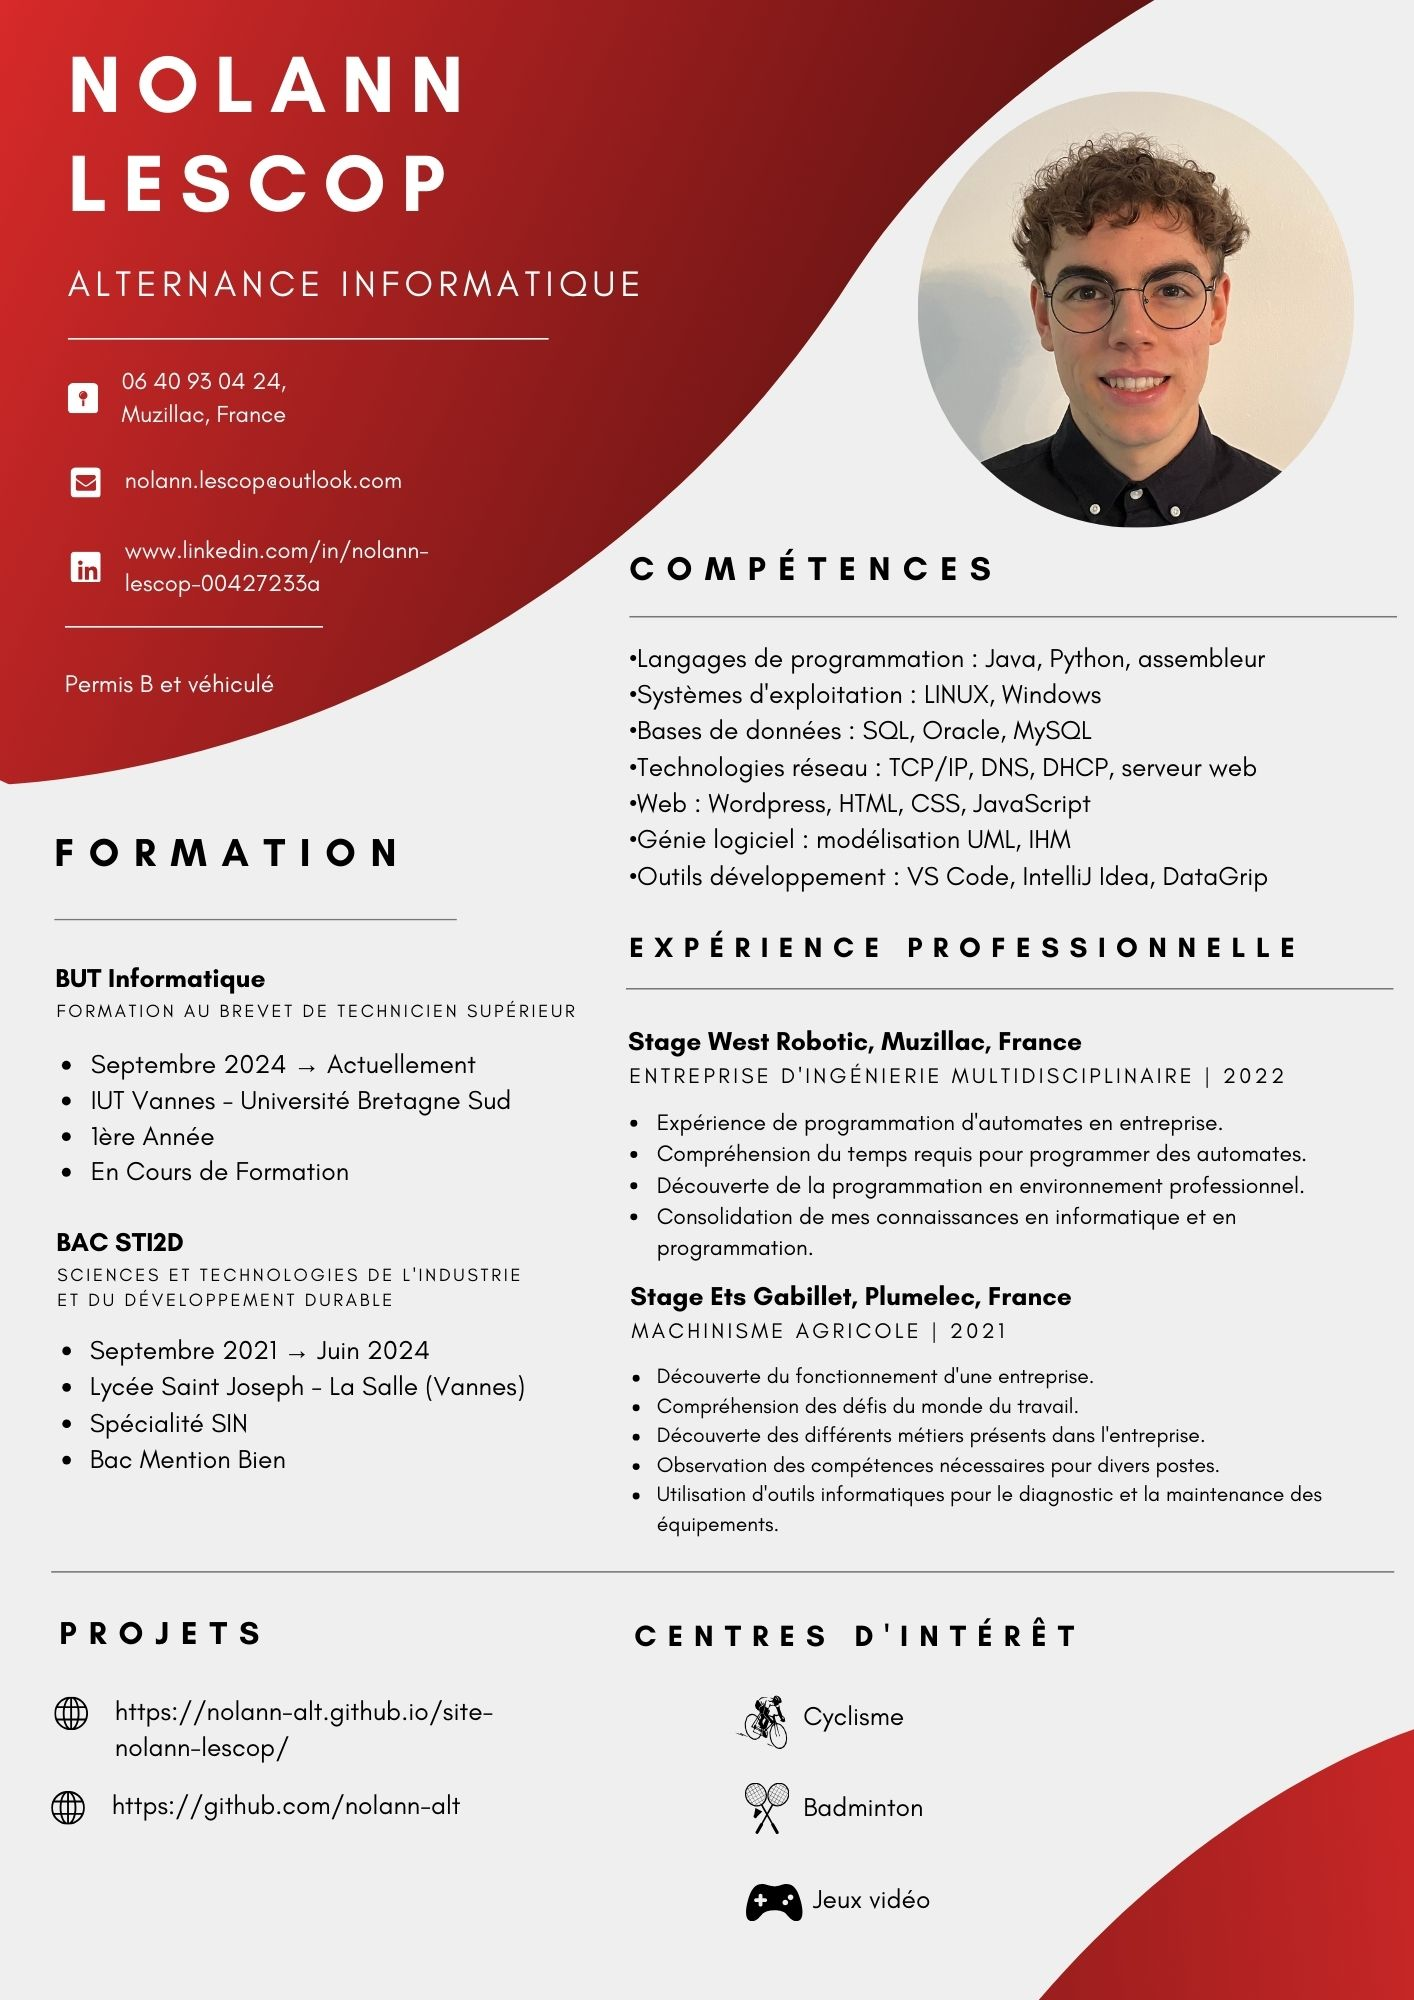
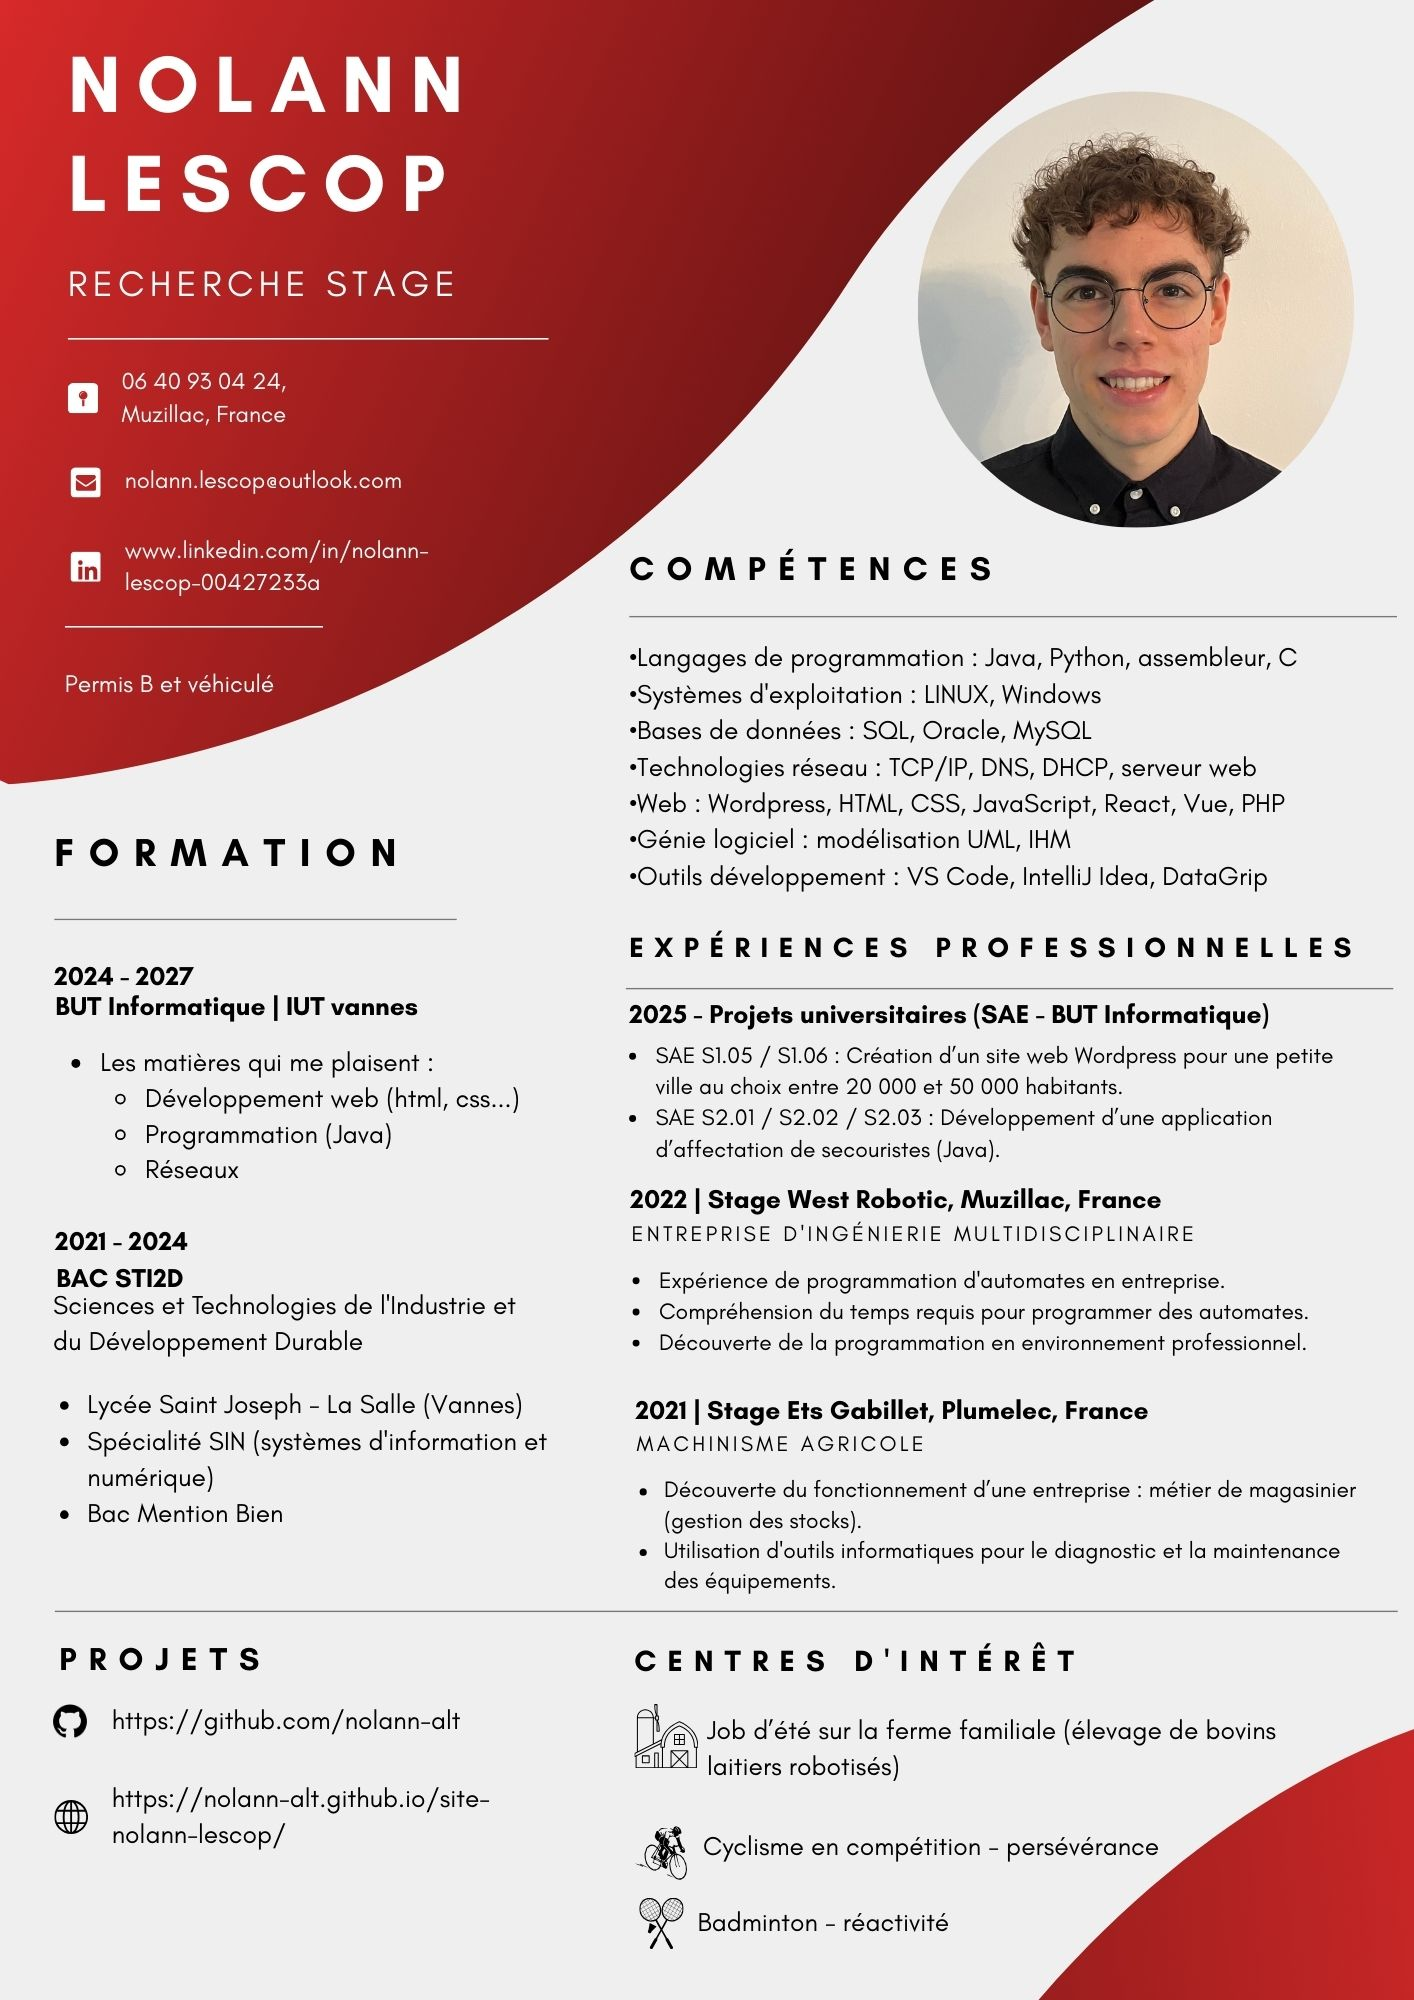
Update-2nd-Year

diff --git a/index.html b/index.html
@@ -38,7 +38,7 @@
             <div class ="presentation" id="presentation">
                 <h1 id="TitreP1">Nolann <span id="TitreP1_2">Lescop.</span></h1>
                 <h2 id="TitreP2">IT work-study</h2>
-                <p id="p1">Hi there, I'm Nolann Lescop, a student at the IUT in Vannes in the first year of a computer science degree, and I'm looking for a work-study placement to apply my knowledge and develop my skills in the IT field.</p>
+                <p id="p1">Hi there, I'm Nolann Lescop, a student at the IUT in Vannes in the second year of a computer science degree, and I'm looking for an internship to apply my knowledge and develop my skills in the IT field.</p>
             </div>
             <div class="presentation1">
                 <h1 id="points">....</h1>
@@ -68,7 +68,7 @@
                                 <p id="p-formation">📅 September 2024 → Present</p>
                                 <p id="p-formation">🏫 Université Bretagne Sud</p>
                                 <p id="p-formation">📍 Vannes, France</p>
-                                <p id="p-formation">📌 1st Year</p>
+                                <p id="p-formation">📌 2nd Year</p>
                             </div>
                             <div class="card highlight-card">
                                 <img id="imgIUT" src="Pictures/IUT.jpg" alt="IUT Vannes">
@@ -192,7 +192,7 @@
         <section class="my-project" id="my-project">
             <section class="my-projects-content">
                 <div id="titre-project">My projects</div>
-                <div id="p-project"><p>In this section, discover my IT projects, including websites and applications that showcase my development skills.</p></div>
+                <div id="p-project"><p>In this section, discover my IT projects I completed in High School, including websites and applications that showcase my development skills.</p></div>
             </section>
             <div class="container-my-projects">
                 <div class="project-selector">
